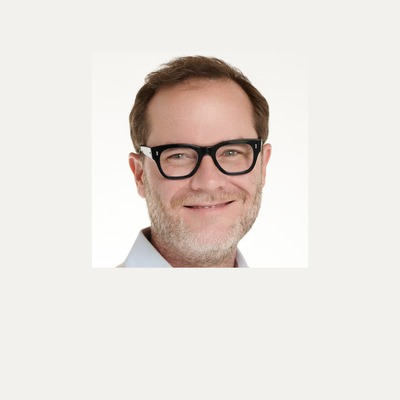
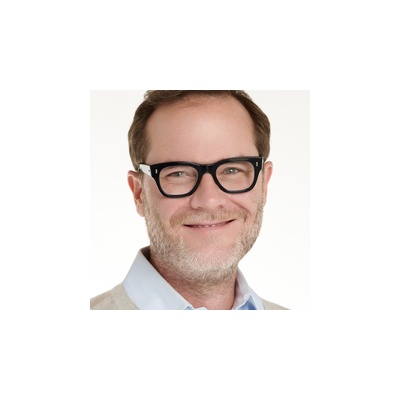
Fix headshot uniformity, increase slide 4 bullets, update use cases
- Reprocess Chris headshot at 55% scale on white canvas to match Eric's head size
- Switch founder photos to circular crop (border-radius: 50%) with white bg
- Increase slide 4 bullet font size from 19px to 22px
- Update dashboard use cases: Exec Briefing Memo creation, Pitch Deck
  Preparation, Market Analysis, Data summarization, Email & comms drafting,
  Brainstorming & ideation

Changed region(s): [[0.21, 0.12, 0.72, 0.78]]

diff --git a/index.html b/index.html
@@ -361,8 +361,8 @@ h1, h2, h3 {
 .founder-photo {
   width: 200px;
   height: 200px;
-  border-radius: var(--radius-xl);
-  background: var(--bg-secondary);
+  border-radius: 50%;
+  background: #FFFFFF;
   border: 1px solid var(--border-subtle);
   overflow: hidden;
 }
@@ -1025,10 +1025,10 @@ h1, h2, h3 {
     <h2 class="slide-headline" style="margin-bottom: 28px;">Companies that are aggressively using GenAI in their businesses are already growing faster than companies that are not using AI.</h2>
     <div class="two-col">
       <div class="two-col-left" style="display: flex; align-items: center;">
-        <ul class="bullet-list" style="font-size: 19px;">
-          <li style="font-size: 19px; margin-bottom: 24px; line-height: 1.6;">Ramp is the leading credit card for startups</li>
-          <li style="font-size: 19px; margin-bottom: 24px; line-height: 1.6;">Ramp analyzed companies that are spending on AI with high intensity</li>
-          <li style="font-size: 19px; line-height: 1.6;">These high AI-intense companies are growing revenue 5x faster than companies with no AI spend</li>
+        <ul class="bullet-list" style="font-size: 22px;">
+          <li style="font-size: 22px; margin-bottom: 28px; line-height: 1.55;">Ramp is the leading credit card for startups</li>
+          <li style="font-size: 22px; margin-bottom: 28px; line-height: 1.55;">Ramp analyzed companies that are spending on AI with high intensity</li>
+          <li style="font-size: 22px; line-height: 1.55;">These high AI-intense companies are growing revenue 5x faster than companies with no AI spend</li>
         </ul>
       </div>
       <div>
@@ -1292,17 +1292,17 @@ h1, h2, h3 {
             <div class="dashboard-section-title">Most Common Use Cases</div>
             <div class="top-user-row">
               <div class="user-rank">1</div>
-              <div class="user-info"><div class="user-name">Writing &amp; editing documents</div><div class="user-dept">All departments</div></div>
+              <div class="user-info"><div class="user-name">Exec Briefing Memo creation</div><div class="user-dept">Leadership, Strategy</div></div>
               <div class="user-prompts">24%</div>
             </div>
             <div class="top-user-row">
               <div class="user-rank">2</div>
-              <div class="user-info"><div class="user-name">Research &amp; analysis</div><div class="user-dept">Product, Marketing, Sales</div></div>
+              <div class="user-info"><div class="user-name">Pitch Deck Preparation</div><div class="user-dept">Sales, Marketing, Leadership</div></div>
               <div class="user-prompts">19%</div>
             </div>
             <div class="top-user-row">
               <div class="user-rank">3</div>
-              <div class="user-info"><div class="user-name">Code generation &amp; review</div><div class="user-dept">Engineering</div></div>
+              <div class="user-info"><div class="user-name">Market Analysis</div><div class="user-dept">Product, Strategy, Sales</div></div>
               <div class="user-prompts">17%</div>
             </div>
             <div class="top-user-row">
